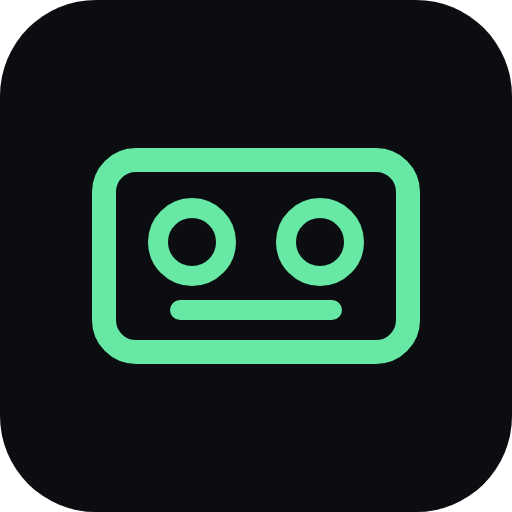
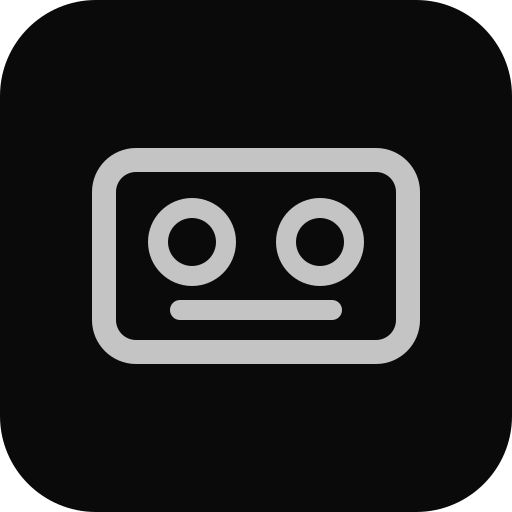
Apply black and gray theme throughout the app and PWA
Factory-Role: builder

Changed region(s): [[0.1562, 0.2812, 0.8438, 0.7188], [0.2812, 0.375, 0.7188, 0.625]]

diff --git a/ui/src/styles/base.css b/ui/src/styles/base.css
@@ -3,28 +3,28 @@
 :root {
     color-scheme: dark;
 
-    --bg: #0a0c0f;
-    --surface: #12151a;
-    --surface-2: #191d23;
-    --surface-3: #222730;
-    --border: #262c35;
-    --border-strong: #353c47;
+    --bg: #0a0a0a;
+    --surface: #141414;
+    --surface-2: #1c1c1c;
+    --surface-3: #262626;
+    --border: #2b2b2b;
+    --border-strong: #404040;
 
-    --text: #e9ecef;
-    --text-2: #a3abb5;
-    --text-3: #6f7883;
+    --text: #ededed;
+    --text-2: #ababab;
+    --text-3: #909090;
 
-    --accent: #5b9dff;
-    --accent-strong: #7db1ff;
-    --accent-bg: rgba(91, 157, 255, 0.14);
-    --recorded: #3f7fe0;
-    --recorded-hi: #5b9dff;
-    --gap-bg: #14171c;
-    --gap-line: #1f242b;
-    --live: #ff4d4f;
-    --live-bg: rgba(255, 77, 79, 0.16);
-    --ok: #3ecf8e;
-    --warn: #f5b041;
+    --accent: #c4c4c4;
+    --accent-strong: #dedede;
+    --accent-bg: rgba(196, 196, 196, 0.18);
+    --recorded: #888888;
+    --recorded-hi: #c4c4c4;
+    --gap-bg: #171717;
+    --gap-line: #242424;
+    --live: #c4c4c4;
+    --live-bg: rgba(196, 196, 196, 0.16);
+    --ok: #c4c4c4;
+    --warn: #dedede;
 
     --radius: 12px;
     --radius-small: 8px;
@@ -75,7 +75,7 @@ img { display: block; }
 }
 .btn:hover { background: var(--surface-3); }
 .btn:disabled { opacity: 0.55; cursor: default; }
-.btn-primary { background: var(--accent); border-color: var(--accent); color: #06101f; }
+.btn-primary { background: var(--accent); border-color: var(--accent); color: var(--bg); }
 .btn-primary:hover { background: var(--accent-strong); }
 .btn-block { width: 100%; }
 .btn-small { min-height: 34px; padding: 0 14px; font-size: 0.88rem; }
@@ -109,7 +109,7 @@ img { display: block; }
     min-height: 40px; padding: 0 16px; border-radius: 999px; cursor: pointer;
     border: 1px solid var(--border); background: var(--surface-2); color: var(--text-2); font-weight: 550; font-size: 0.9rem;
 }
-.chip-button.is-active { background: var(--accent-bg); border-color: rgba(91, 157, 255, 0.5); color: var(--accent-strong); }
+.chip-button.is-active { background: var(--accent-bg); border-color: var(--accent); color: var(--accent-strong); }
 
 .chip {
     display: inline-flex; align-items: center; padding: 1px 8px; border-radius: 999px;
@@ -121,10 +121,10 @@ img { display: block; }
 .badge {
     display: inline-flex; align-items: center; gap: 6px; height: 22px; padding: 0 8px;
     border-radius: 6px; font-size: 0.72rem; font-weight: 700; letter-spacing: 0.04em; text-transform: uppercase;
-    background: rgba(10, 12, 15, 0.72); color: var(--text); backdrop-filter: blur(6px);
+    background: rgba(10, 10, 10, 0.72); color: var(--text); backdrop-filter: blur(6px);
     white-space: nowrap;
 }
-.badge-live { color: #fff; background: rgba(255, 77, 79, 0.92); }
+.badge-live { color: var(--bg); background: var(--live); }
 
 .live-dot {
     width: 7px; height: 7px; border-radius: 50%; background: currentColor; flex: none;
@@ -255,7 +255,7 @@ img { display: block; }
 .day-chip:focus-visible { outline: 2px solid var(--accent); outline-offset: -2px; }
 .day-chip-top { font-size: 0.68rem; font-weight: 650; text-transform: uppercase; letter-spacing: 0.04em; white-space: nowrap; }
 .day-chip-main { font-size: 1.05rem; font-weight: 700; line-height: 1.15; color: var(--text); display: inline-flex; }
-.day-chip.is-active { background: var(--accent-bg); border-color: rgba(91, 157, 255, 0.6); color: var(--accent-strong); }
+.day-chip.is-active { background: var(--accent-bg); border-color: var(--accent); color: var(--accent-strong); }
 .day-chip.is-active .day-chip-main { color: var(--accent-strong); }
 .day-chips-end { flex: 0 0 1px; }
 

diff --git a/ui/src/styles/player.css b/ui/src/styles/player.css
@@ -59,7 +59,7 @@
 @keyframes busy-in { from { opacity: 0; } to { opacity: 1; } }
 .stage-card {
     display: flex; flex-direction: column; align-items: center; gap: 6px; max-width: 300px; padding: 18px 20px;
-    border-radius: 14px; text-align: center; background: rgba(18, 21, 26, 0.9); backdrop-filter: blur(8px);
+    border-radius: 14px; text-align: center; background: rgba(20, 20, 20, 0.9); backdrop-filter: blur(8px);
     border: 1px solid var(--border); color: var(--text-2); font-size: 0.88rem;
 }
 .stage-card strong { color: var(--text); font-size: 1rem; }
@@ -68,7 +68,7 @@
 .stage-notice {
     position: absolute; left: 50%; bottom: 14px; transform: translateX(-50%);
     padding: 7px 14px; border-radius: 999px; max-width: calc(100% - 100px);
-    background: rgba(18, 21, 26, 0.9); border: 1px solid var(--border-strong); font-size: 0.82rem; text-align: center;
+    background: rgba(20, 20, 20, 0.9); border: 1px solid var(--border-strong); font-size: 0.82rem; text-align: center;
     animation: notice 3.5s ease forwards; pointer-events: none;
 }
 @keyframes notice { 0% { opacity: 0; transform: translate(-50%, 6px); } 8%, 85% { opacity: 1; transform: translate(-50%, 0); } 100% { opacity: 0; } }
@@ -224,6 +224,6 @@
 .timeline.is-live .timeline-playhead, .timeline.is-live .timeline-playhead span { background: var(--live); }
 .timeline-empty {
     position: absolute; left: 50%; top: 38px; transform: translate(-50%, -50%);
-    padding: 4px 12px; border-radius: 999px; background: rgba(10, 12, 15, 0.85); color: var(--text-2); font-size: 0.8rem;
+    padding: 4px 12px; border-radius: 999px; background: rgba(10, 10, 10, 0.85); color: var(--text-2); font-size: 0.8rem;
     pointer-events: none; white-space: nowrap;
 }

diff --git a/ui/src/styles/shell.css b/ui/src/styles/shell.css
@@ -5,7 +5,7 @@
 .topbar {
     position: sticky; top: 0; z-index: 20;
     height: calc(56px + var(--safe-top)); padding-top: var(--safe-top);
-    background: rgba(10, 12, 15, 0.86); backdrop-filter: blur(12px);
+    background: rgba(10, 10, 10, 0.86); backdrop-filter: blur(12px);
     border-bottom: 1px solid var(--border);
 }
 /* same column and gutters as .page so the header lines up with the content */
@@ -17,7 +17,7 @@
 .brand { display: inline-flex; align-items: center; gap: 10px; font-weight: 700; letter-spacing: 0.08em; text-transform: uppercase; }
 .brand-mark {
     display: inline-flex; align-items: center; justify-content: center; width: 32px; height: 32px; border-radius: 9px;
-    background: linear-gradient(140deg, #2b5fae, #5b9dff); color: #fff;
+    background: linear-gradient(140deg, #888888, #c4c4c4); color: #fff;
 }
 .topbar-logout { margin-left: auto; color: var(--text-2); }
 
@@ -35,17 +35,6 @@
 /* ---- login --------------------------------------------------------------- */
 
 .login {
-    --bg: #0a0a0a;
-    --surface: #141414;
-    --border: #2b2b2b;
-    --border-strong: #404040;
-    --text: #ededed;
-    --text-2: #ababab;
-    --accent: #c4c4c4;
-    --accent-strong: #dedede;
-    --accent-bg: rgba(196, 196, 196, 0.18);
-    --live: #c4c4c4;
-
     color: var(--text);
     min-height: 100vh; min-height: 100dvh; display: grid; place-items: center; padding: 24px;
     background: var(--bg);
@@ -56,5 +45,3 @@
 }
 .login-error { min-height: 1.2em; margin: -4px 0 -4px; color: var(--text); font-size: 0.88rem; text-align: center; }
 .login .btn { min-height: 48px; font-size: 1rem; }
-
-.login .btn-primary { color: var(--bg); }

diff --git a/ui/src/styles/cameras.css b/ui/src/styles/cameras.css
@@ -21,7 +21,7 @@
 .camera-tile-empty {
     position: absolute; inset: 0; display: flex; flex-direction: column; align-items: center; justify-content: center; gap: 8px;
     color: var(--text-3); font-size: 0.88rem;
-    background: repeating-linear-gradient(45deg, #0f1216 0 10px, #12161b 10px 20px);
+    background: repeating-linear-gradient(45deg, #101010 0 10px, #161616 10px 20px);
 }
 .camera-tile-live { position: absolute; top: 10px; left: 10px; }
 .camera-tile-age { position: absolute; bottom: 10px; left: 10px; text-transform: none; letter-spacing: 0; font-weight: 600; color: var(--warn); }
@@ -35,7 +35,7 @@
     font-size: 0.75rem; font-weight: 650;
 }
 .status-dot { width: 7px; height: 7px; border-radius: 50%; background: currentColor; }
-.status-pill.is-online { color: var(--ok); background: rgba(62, 207, 142, 0.12); }
+.status-pill.is-online { color: var(--ok); background: var(--accent-bg); }
 .status-pill.is-offline { color: var(--text-3); background: var(--surface-3); }
 
 @media (max-width: 720px) {

diff --git a/ui/index.html b/ui/index.html
@@ -9,7 +9,7 @@
     <meta name="description" content="Home security camera viewer" />
 
     <!-- Theme Color -->
-    <meta name="theme-color" content="#0b0d10" />
+    <meta name="theme-color" content="#0a0a0a" />
     <meta name="color-scheme" content="dark" />
 
     <!-- Apple Touch Icon -->
@@ -28,7 +28,7 @@
     <!-- Disable tap highlight on mobile -->
     <meta name="msapplication-tap-highlight" content="no" />
   </head>
-  <body style="background:#0b0d10">
+  <body style="background:#0a0a0a">
     <div id="root"></div>
     <script type="module" src="/src/main.tsx"></script>
   </body>

diff --git a/ui/vite.config.ts b/ui/vite.config.ts
@@ -33,8 +33,8 @@ export default defineConfig(({ mode }) => {
           name: 'Tapes',
           short_name: 'Tapes',
           description: 'Home security camera viewer',
-          theme_color: '#0b0d10',
-          background_color: '#0b0d10',
+          theme_color: '#0a0a0a',
+          background_color: '#0a0a0a',
           display: 'standalone',
           orientation: 'any',
           start_url: '/',
